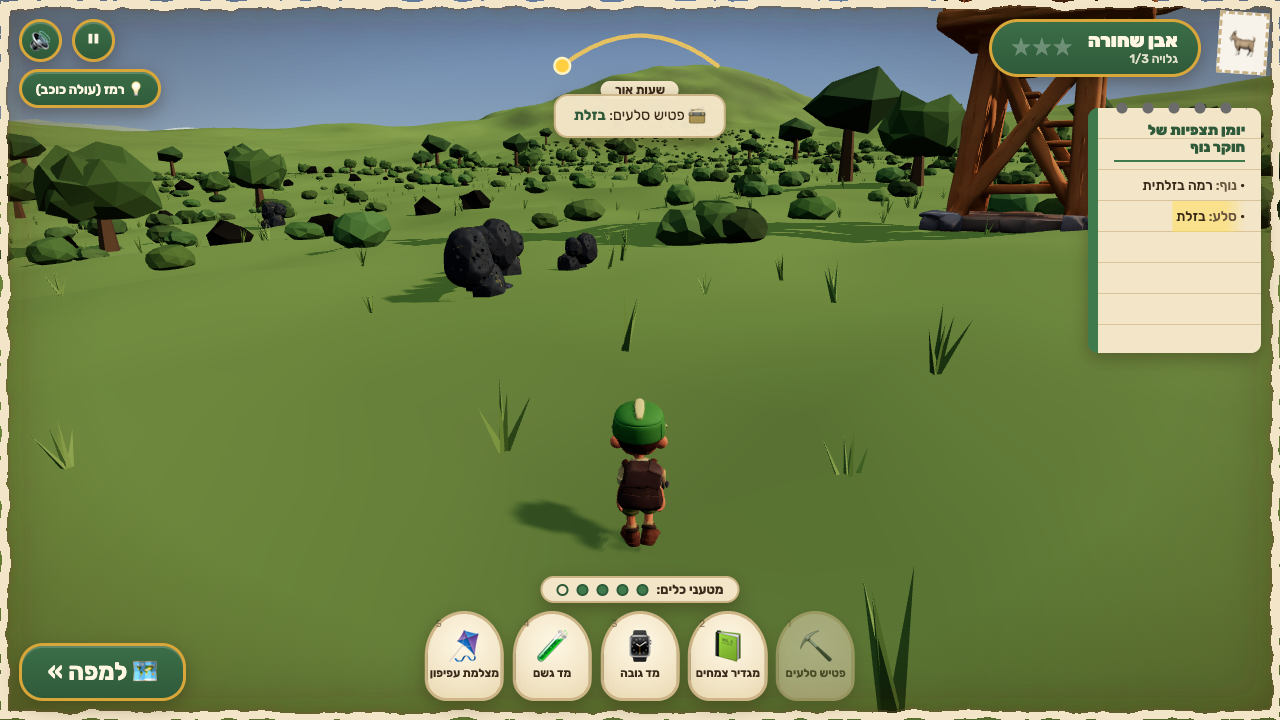
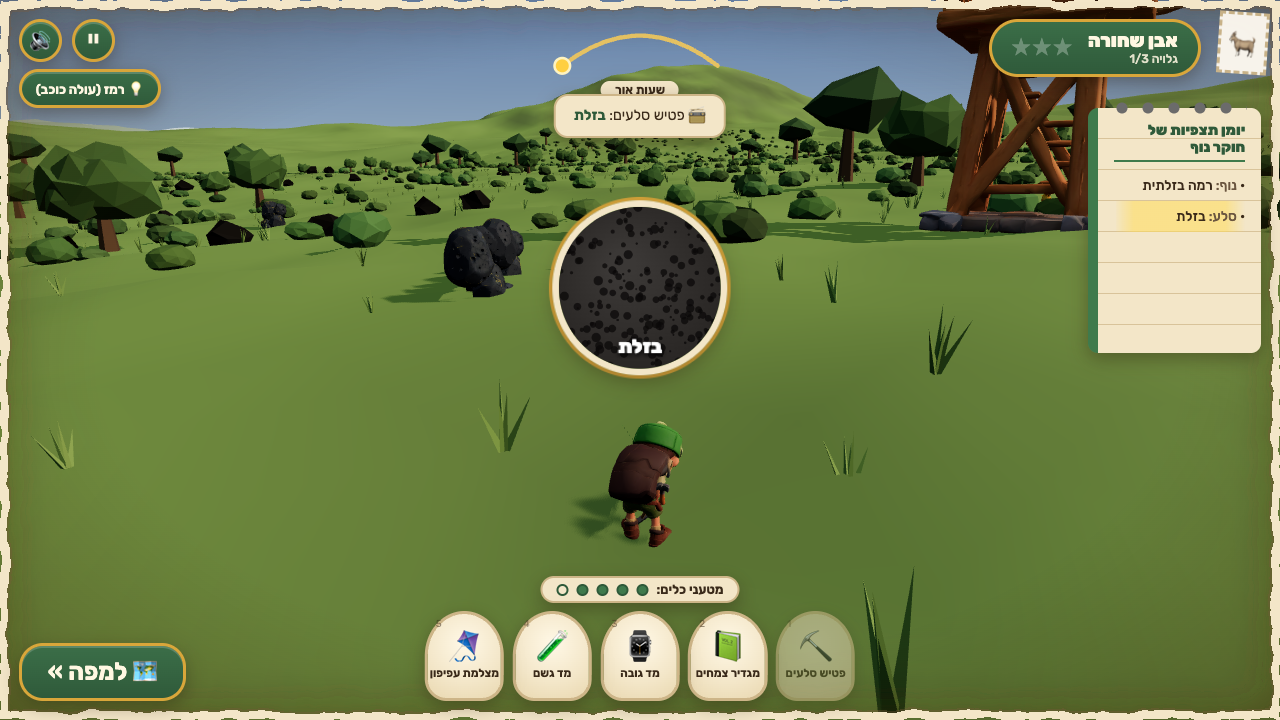
Visual review against mockups with real captures; ibex closer at start; denser towns

Changed region(s): [[0.4062, 0.275, 0.5938, 0.7639], [0.875, 0.275, 0.9375, 0.3361]]

diff --git a/src/scene/world.ts b/src/scene/world.ts
@@ -689,10 +689,11 @@ export class PostcardWorld {
     const towers = c.includes('glass_towers');
     const stone = c.includes('stone_houses');
     const dense = c.includes('dense_town') || towers;
-    const nHouses = dense ? 70 : c.includes('sparse_town') ? 14 : c.includes('stone_houses') || c.includes('church') ? 40 : 0;
+    const nHouses = dense ? 150 : c.includes('sparse_town') ? 14 : c.includes('stone_houses') || c.includes('church') ? 40 : 0;
     for (let i = 0; i < nHouses; i++) {
       const ang = front + (r() - 0.5) * (dense ? 300 : 160);
-      const d = 35 + r() * (dense ? 300 : 220);
+      // Dense towns pack in (square-root spread keeps the middle full); from the kite they read as one built-up block.
+      const d = 35 + (dense ? Math.sqrt(r()) * 230 : r() * 220);
       const a = (ang * Math.PI) / 180;
       const x = Math.sin(a) * d, z = -Math.cos(a) * d;
       if (!this.dry(x, z, 1) || this.slope(x, z) > 0.6 || Math.hypot(x, z) < 25) continue;

diff --git a/src/scene/explore.ts b/src/scene/explore.ts
@@ -151,11 +151,11 @@ export class Explorer {
   }
 
   private placeIbex() {
-    // On a rise in front of the start, 60–120 m away.
-    let best = new THREE.Vector3(0, -1e9, -80);
-    for (let k = -6; k <= 6; k++) {
+    // On a rise just ahead and off to one side of the start, close enough to read on screen.
+    let best = new THREE.Vector3(0, -1e9, -30);
+    for (const k of [-5, -4, -3, -2, 2, 3, 4, 5]) {
       const a = this.yaw + k * 0.12;
-      for (const d of [55, 75, 95, 115]) {
+      for (const d of [22, 28, 34, 40]) {
         const x = Math.sin(a) * d, z = -Math.cos(a) * d;
         const h = this.world.heightAt(x, z);
         if (this.world.waterLevel !== null && h < this.world.waterLevel + 1) continue;

diff --git a/docs/VISUAL_REVIEW.md b/docs/VISUAL_REVIEW.md
@@ -1,0 +1,111 @@
+# Visual review — real captures vs. the gameplay mockups
+
+The mockups in `docs/visual-targets/` are the art direction. Every capture below is a real frame from the running game: Playwright drives `scripts/drive.mjs` against the dev server at 1280×720, with deterministic time (`window.advanceTime`). Nothing is painted over. To regenerate, run the commands in the "Capture" column.
+
+Verdict per target: **match** means the composition, HUD and readability goals are met. **gap** means the difference is known and listed honestly.
+
+## 01 — First 30 seconds (Nitzanim dunes, sunset)
+
+| Target | Real |
+|---|---|
+| ![](visual-targets/01-first-30s.png) | ![](screenshots/01-first-30s.png) |
+
+Capture: `node scripts/drive.mjs "eval:__ld.startCase(__ld_cases[0])" waitfor:explore adv:4000 shot:docs/screenshots/01-first-30s.png`
+
+- **Match:**
+  - Deckle-edged postcard frame and stamp.
+  - Title pill with three stars.
+  - Sun arc with the "שעות אור" tag.
+  - Notebook on the right, already holding a free observation ("נוף: דיונות חול").
+  - Five tool buttons at the bottom with Hebrew labels.
+  - The "למפה" button at bottom left.
+  - Pause and mute top left.
+  - Low western sun over the dunes.
+  - Ranger seen from behind.
+  - Yaeli (the ibex) standing on a dune ahead, off to one side of the reticle.
+- **Gap:**
+  - The sea is a thin band on the horizon. The real dunes at Nitzanim hide it from the start point until you climb the lookout (see 05).
+  - The kurkar outcrop in the mockup is not on this card. The place's rock is sand, and the solver data has no kurkar ridge here.
+  - Our charge pips are a single row above the belt, not three pips under each tool. Case 1 has unlimited charges (∞).
+
+## 02 — Core loop (Golan basalt, hammer)
+
+| Target | Real (swing) | Real (reading) |
+|---|---|---|
+| ![](visual-targets/02-core-golan.png) | ![](screenshots/02-core-golan-hammer.png) | ![](screenshots/02b-golan-notebook.png) |
+
+Capture: `… startCase(__ld_cases[3]) … key:1 adv:1600 shot:…`, then `adv:2600 wait:500 shot:…` for the reading.
+
+- **Match:**
+  - The ranger swings the hammer (the Tripo `chop` clip, with a hammer parented to the right hand).
+  - The toast reads "פטיש סלעים: בזלת", and the notebook gains "סלע: בזלת".
+  - A magnified, procedurally drawn vesicular rock inset with its Hebrew name pops up on the hit.
+  - Tripo vesicular `basalt_boulders` clusters stand in green Golan grassland with oaks.
+  - The used tool greys out and one charge pip empties.
+  - The basalt-plateau landform note is already in the notebook.
+- **Gap:**
+  - The Tripo basalt field walls are placed off to the side, not in this frame.
+  - The ranger swings at the air in front, not at a specific boulder.
+  - The volcanic cones are on the 90 km horizon from real relief, so they are low and soft, not the mockup's tall framed cones.
+
+## 03 — Pin and reveal
+
+| Target | Real (map) | Real (reveal) |
+|---|---|---|
+| ![](visual-targets/03-pin-reveal.png) | ![](screenshots/03a-pin-map.png) | ![](screenshots/03b-pin-reveal.png) |
+
+Capture: `… key:m waitfor:map adv:1500 shot:… "pinat:32.95,35.3" adv:400 key:Enter adv:9000 wait:2000 shot:…`
+
+- **Match:**
+  - A lamp-lit tabletop relief model of the real terrain: AWS Terrain Tiles with 7× vertical exaggeration and a hypsometric tint, with the Kinneret, the Dead Sea and a snow-white Hermon.
+  - The north card.
+  - A brass pin with a red head.
+  - A dashed arc from the pin to a green flag at the truth.
+  - The true zone outlined, and city names that appear only at the reveal.
+  - Yaeli on the model.
+  - A big "48 ק״מ" counter with points.
+  - An explain strip in the "בזלת + רמה → רמת הגולן, לא הגליל" form, with the trap text.
+  - The "המשך" button.
+- **Gap:**
+  - North stays straight up rather than on the mockup's diagonal, because the game teaches "צפון תמיד למעלה במפה".
+  - The table has no props (lamp, binoculars, notebook); a CSS vignette stands in for the lamp light.
+  - The ibex on the map is small.
+
+## 04 — Level select (album)
+
+| Target | Real |
+|---|---|
+| ![](visual-targets/04-level-select.png) | ![](screenshots/04-level-select.png) |
+
+- **Match:**
+  - Four world pages, each with a coloured tab.
+  - Each postcard thumbnail is a real HUD-free gameplay frame (`public/thumbs/case-N.jpg`).
+  - Stars per case and a total of 17/54.
+  - Locked cases are sepia with a lock.
+  - The next playable case is highlighted.
+  - The "תיק יומי" (daily case) and "שחק" buttons.
+- **Gap:**
+  - Thumbnails show the ranger from behind rather than a painted vignette.
+  - The highlighted card overlaps the name of the card above it by a few pixels.
+
+## Extra captures (not in the mockups)
+
+| | |
+|---|---|
+| Lookout over the sea, Apollonia ![](screenshots/05-lookout-sea-west.png) | Night card: only the sea is heard ![](screenshots/06-night-card.png) |
+| Makhtesh Ramon from the rim lookout (floor tint and strata) ![](screenshots/07-ramon-from-lookout.png) | Dead Sea shore, Ein Gedi ![](screenshots/08-dead-sea-shore.png) |
+| Nazareth from the kite camera (dense town, minaret, market) ![](screenshots/09-nazareth-kite.png) | Intro card ![](screenshots/00-intro-card.png) |
+
+## Fixes made during this review
+
+- **Basalt outcrop:** it rendered as black shards because a non-indexed polyhedron was jittered per vertex. Jitter now hashes by position, and the outcrop uses Tripo `basalt_boulders`.
+- **Lake and coast spawns:** six places spawned the ranger on the SRTM water surface (Dor, Ein Gedi, the sinkholes, Coral Beach, Tiberias, the Jordan inflow). They now start on the nearest dry shore, facing the water. The lake surface is taken from the commonest low height, and the shore shelves under it.
+- **Ramon:** the start moved to the real rim edge in the relief data, facing the crater. The floor below the rim takes a warm tint, and dry sedimentary slopes show strata bands.
+- **Lookout:** the Tripo lookout tower is hidden while you are on its deck, so its posts never fill the first-person view.
+- **Opening views:** large trees, boulders and props are kept out of the first 40 m in front of the start heading.
+- **Map:**
+  - Framing tightened, with a vignette.
+  - The reveal camera stays steeper near the north edge so it doesn't look past the model.
+  - The "N" sprite moved onto the sea so it never sits on a reveal zone.
+- **Dense towns** pack tighter, so they read as built-up from the kite camera.
+- **The ibex** now stands 22–40 m out, beside the reticle, instead of 55–115 m away.
